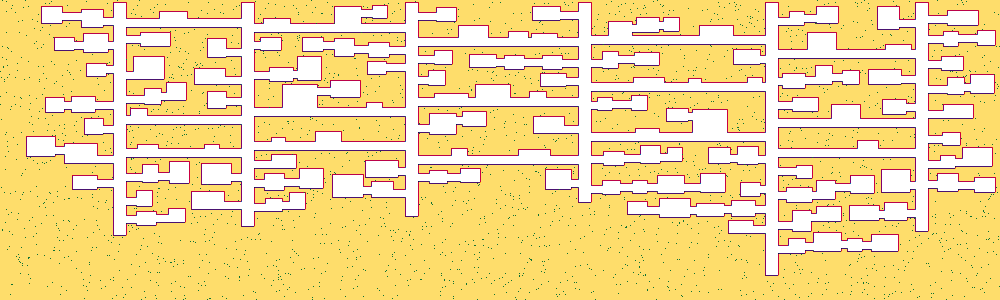
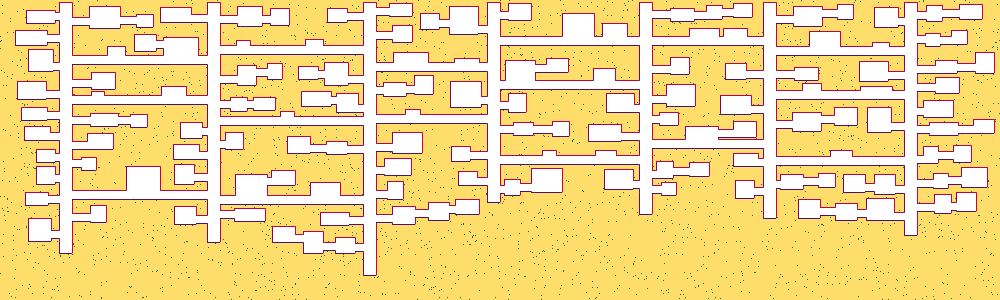
room count

diff --git a/map.js b/map.js
@@ -199,9 +199,9 @@ exports.Map.prototype = {
           sizeX = this.Random(18,32);
           sizeY = this.Random(12,sizeX+2);
           var offset = this.Random(0,3);
-          room = this.makeRoom(branch, sizeX, sizeY, offset);
+          room = this.makeRoom(branch, sizeX, sizeY, offset, 0);
           var testBranch = this.makeFeature(branch.x-1, branch.y-2, branch.width-2, branch.height + 4, 0, 0, 0, 0, 0, branch.type, branch.subtype);
-          var testRoom = this.makeRoom(testBranch, sizeX + 6, sizeY + 6, offset);
+          var testRoom = this.makeRoom(testBranch, sizeX + 6, sizeY + 6, offset, 0);
           if (!this.intersectAll(testBranch, this.mapFeatures)
           && !this.intersectAll(testRoom, this.mapFeatures)
           && this.inMapBounds(testBranch, mapWidth, mapHeight)
@@ -218,9 +218,9 @@ exports.Map.prototype = {
           sizeX = this.Random(14,30);
           sizeY = this.Random(12,sizeX+2);
           var offset = this.Random(0,3);
-          room = this.makeRoom(branch, sizeX, sizeY, offset);
+          room = this.makeRoom(branch, sizeX, sizeY, offset, 1);
           var testBranch = this.makeFeature(branch.x+1, branch.y-2, branch.width-2, branch.height + 4, 0, 0, 0, 0, 0, branch.type, branch.subtype);
-          var testRoom = this.makeRoom(testBranch, sizeX + 6, sizeY + 6, offset);
+          var testRoom = this.makeRoom(testBranch, sizeX + 6, sizeY + 6, offset, 1);
           if (!this.intersectAll(testBranch, this.mapFeatures)
           && !this.intersectAll(testRoom, this.mapFeatures)
           && this.inMapBounds(testBranch, mapWidth, mapHeight)
@@ -235,19 +235,19 @@ exports.Map.prototype = {
     }
     //console.log(this.rooms);
   },
-  makeBranch: function makeBranch(shafts, branchStarts, X, Y, Width, Height, orientation) {
+  makeBranch: function makeBranch(object, branchStarts, X, Y, Width, Height, orientation) {
     if (orientation === 0) {
-      X = this.Random(shafts.x - 20, shafts.x - 5);
-      Width = shafts.x - X;
+      X = this.Random(object.x - 20, object.x - 5);
+      Width = object.x - X;
     } else {
-      X = shafts.x + shafts.width;
+      X = object.x + object.width;
       Width = this.Random(5, 20);
     }
     Y = branchStarts;
-    return this.makeFeature(X, Y, Width, Height, 0, 0, 0, 0, 0, 3, orientation);
+    return this.makeFeature(X, Y, Width, Height, 0, 0, 0, 0, 0, 3, object.subtype + 1);
   },
-  makeRoom: function makeRoom(object, sizeX, sizeY, offset) {
-    if (object.subtype === 0) {
+  makeRoom: function makeRoom(object, sizeX, sizeY, offset, orientation) {
+    if (orientation === 0) {
       var X = object.x - sizeX;
     } else {
       var X = object.x + object.width;
@@ -255,7 +255,7 @@ exports.Map.prototype = {
     var Y = object.y - sizeY + object.height + offset;
     var Width = sizeX;
     var Height = sizeY;
-    return this.makeFeature(X, Y, Width, Height, 0, 0, 0, 0, 0, 4, 0);
+    return this.makeFeature(X, Y, Width, Height, 0, 0, 0, 0, 0, 4, object.subtype);
   },
   writeToMap: function writeToMap(array, mapWidth, mapHeight) {
     for (var j = 0; j < array.length; j++) {
@@ -303,7 +303,7 @@ exports.Map.prototype = {
     this.mainShafts(x, y+3, width, height-3);
     this.connectShafts(x, y+3, width, height-3, mapWidth, mapHeight);
     this.makeConnectorRooms(x, y+3, width, height-3, mapWidth, mapHeight);
-    console.log(this.connectorRooms);
+    //console.log(this.connectorRooms);
     this.branchFeature(this.shafts, x, y+3, width, height-3, mapWidth, mapHeight);
     this.branchFeature(this.connectorRooms, x, y+3, width, height-3, mapWidth, mapHeight);
     this.branchFeature(this.rooms, x, y+3, width, height-3, mapWidth, mapHeight);
@@ -312,6 +312,23 @@ exports.Map.prototype = {
     this.randomTerrain(100, x, y, width, height, mapWidth, mapHeight, 14)
     this.writeTiles(mapWidth,mapHeight);
     this.randomTerrain(500, x, y, width, height, mapWidth, mapHeight, 14)
+    var N = this.countRooms(this.mapFeatures);
+    console.log(N);
+  },
+  countRooms: function countRooms (array) {
+    var n = 0;
+    var N = [];
+    loop:
+    for (var j = 0; j < 12; j++) {
+      n = 0;
+      for (var i = 0; i < array.length; i++) {
+        if (array[i].type === 4 && array[i].subtype === j) {
+          n++;
+        }
+      }
+      N.push(n);
+    }
+    return N;
   },
   generate: function generate(mapWidth, mapHeight, type) {
     this.mapSize = mapWidth * mapHeight;
